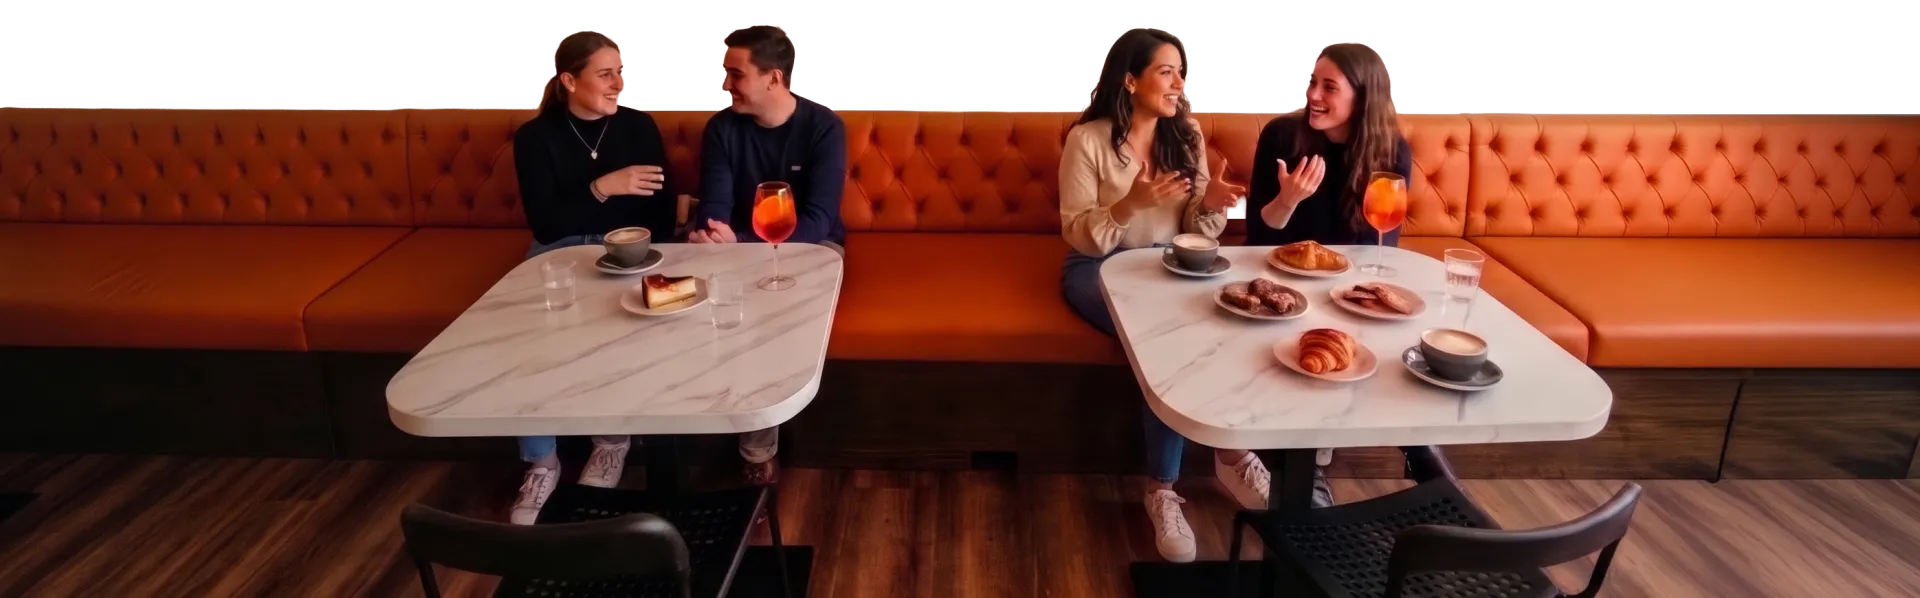
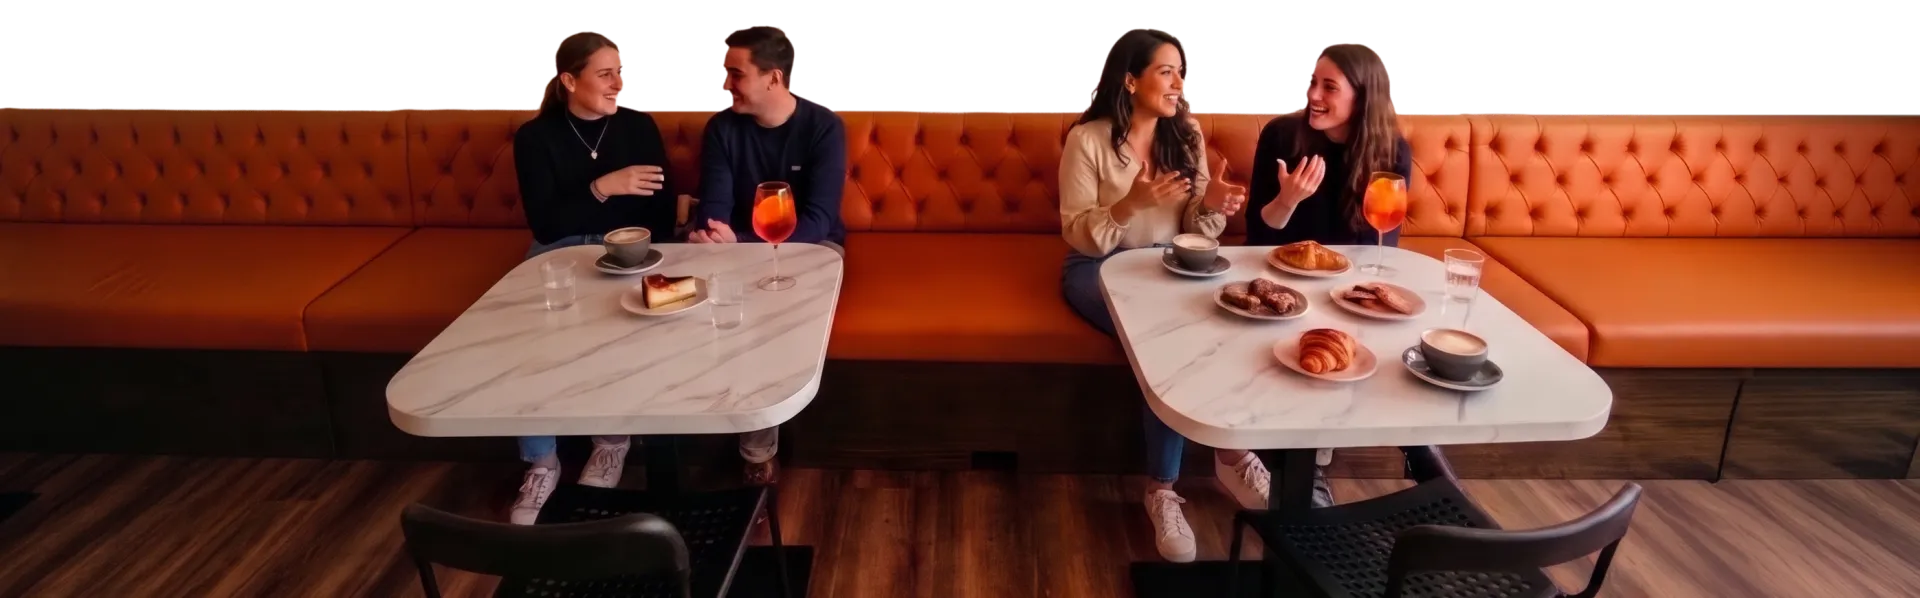
style: actualiza la foto del pie con el retoque de bg-footer

diff --git a/carta.html b/carta.html
@@ -117,7 +117,7 @@
       </div>
     </div>
     <div class="pie__foto">
-      <img src="img/pie-salon-1920.webp?v=2" srcset="img/pie-salon-960.webp?v=2 960w, img/pie-salon-1920.webp?v=2 1920w" sizes="100vw" alt="Clientes conversando en el salón de Coraggio con spritz, café y pastelería" width="1920" height="598" loading="lazy">
+      <img src="img/pie-salon-1920.webp?v=3" srcset="img/pie-salon-960.webp?v=3 960w, img/pie-salon-1920.webp?v=3 1920w" sizes="100vw" alt="Clientes conversando en el salón de Coraggio con spritz, café y pastelería" width="1920" height="598" loading="lazy">
       <div class="contenedor">
         <div class="pie__legal">
           <p>Precios en miles de pesos. Incluyen impuesto al consumo.</p>

diff --git a/index.html b/index.html
@@ -459,7 +459,7 @@
       </div>
     </div>
     <div class="pie__foto">
-      <img src="img/pie-salon-1920.webp?v=2" srcset="img/pie-salon-960.webp?v=2 960w, img/pie-salon-1920.webp?v=2 1920w" sizes="100vw" alt="Clientes conversando en el salón de Coraggio con spritz, café y pastelería" width="1920" height="598" loading="lazy">
+      <img src="img/pie-salon-1920.webp?v=3" srcset="img/pie-salon-960.webp?v=3 960w, img/pie-salon-1920.webp?v=3 1920w" sizes="100vw" alt="Clientes conversando en el salón de Coraggio con spritz, café y pastelería" width="1920" height="598" loading="lazy">
       <div class="contenedor">
         <div class="pie__legal">
           <p>Precios en miles de pesos. Incluyen impuesto al consumo.</p>
